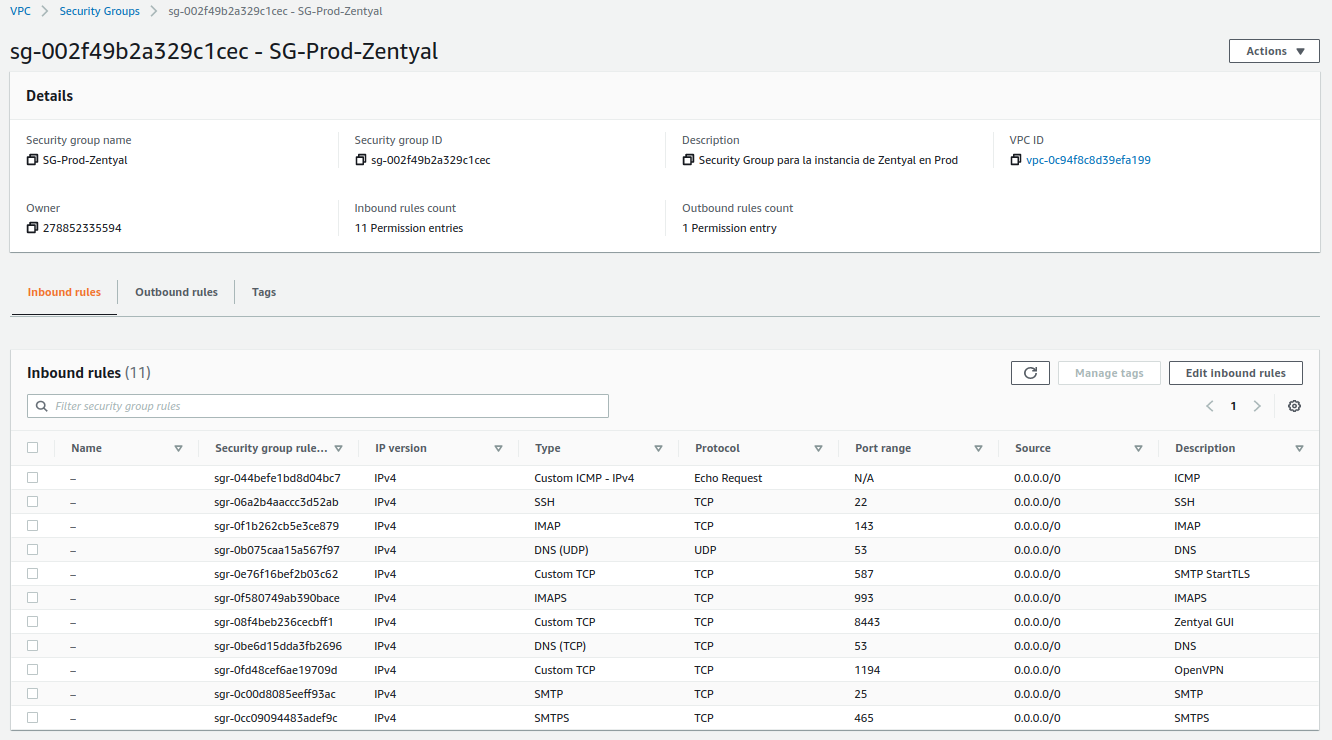
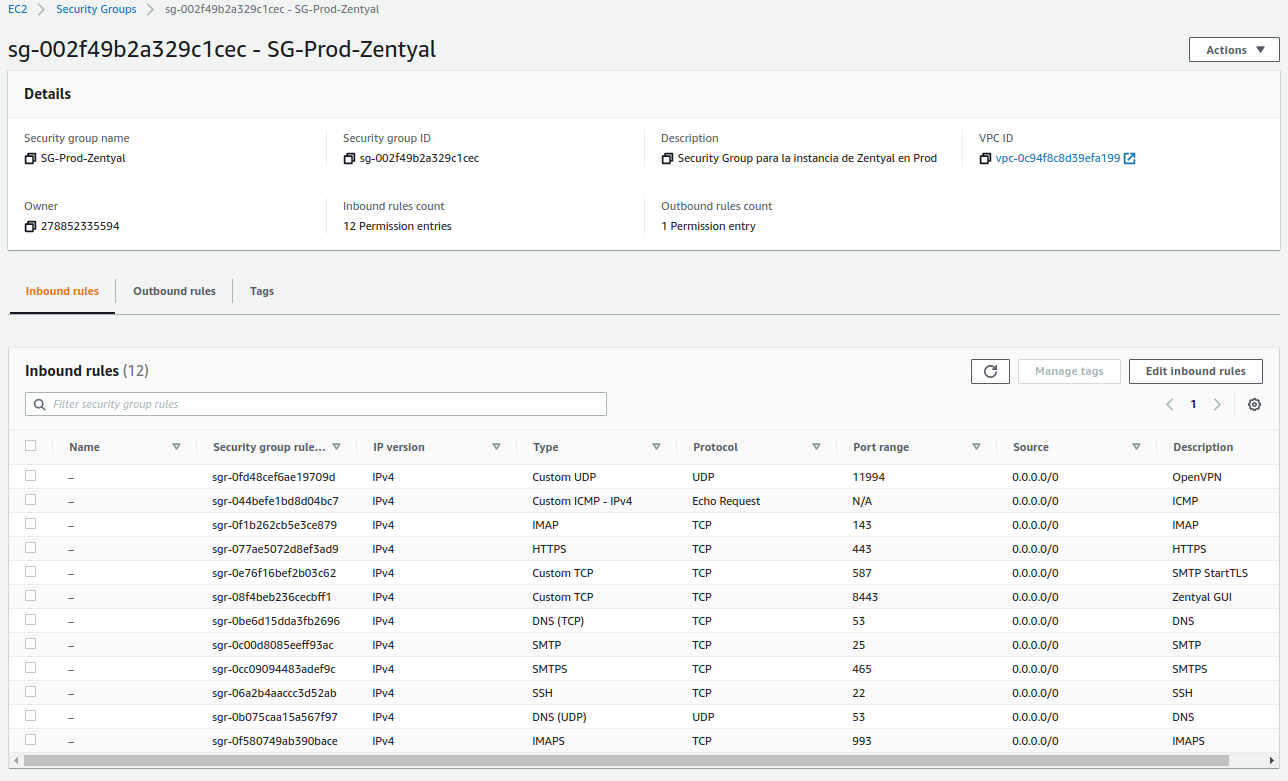
Añadido apartado de VPN

diff --git a/docs/zentyal-configuration.md b/docs/zentyal-configuration.md
@@ -246,13 +246,31 @@ En caso de que hayamos añadido volúmenes EBS adicionales -como ha sido mi caso
         └─nvme2n1p1  ext4                   e903ff6f-c431-4e3a-92a1-9f476c66b3be
     ```
 
-6. Creamos los directorios donde se montarán ambos volúmenes EBS:
+6. Creamos el directorio donde se montará el volumen EBS para los buzones de correo:
 
     ```sh
-    sudo mkdir -v /home/samba /var/vmail
+    sudo mkdir -v /var/vmail
     ```
 
-7. Obtenemos el identificador (UUID) de los volúmenes:
+7. Montamos temporalmente el volumen EBS que contendrá los recursos compartidos:
+
+    ```sh
+    sudo mount /dev/nvme1n1p1 /mnt
+    ```
+
+8. Copiamos el contenido del directorio `/home` al directorio temporal donde hemos montado el volumen EBS:
+
+    ```sh
+    sudo cp -aR /home/* /mnt/
+    ```
+
+9. Desmontamos el volumen EBS:
+
+    ```sh
+    sudo umount /mnt
+    ```
+
+10. Obtenemos el identificador (UUID) de los volúmenes:
 
     ```sh
     sudo sudo blkid | egrep "nvme[12]n1p1"
@@ -260,28 +278,28 @@ En caso de que hayamos añadido volúmenes EBS adicionales -como ha sido mi caso
         /dev/nvme1n1p1: UUID="e903ff6f-c431-4e3a-92a1-9f476c66b3be" TYPE="ext4" PARTUUID="446d2929-01"
     ```
 
-8. Establecemos en el archivo `/etc/fstab` el montaje de los volúmenes EBS:
+11. Establecemos en el archivo `/etc/fstab` el montaje de los volúmenes EBS:
 
     ```sh
     ## AWS EBS - Shares
-    UUID=e903ff6f-c431-4e3a-92a1-9f476c66b3be /home/samba ext4 defaults,noexec,nodev,nosuid 0 2
+    UUID=e903ff6f-c431-4e3a-92a1-9f476c66b3be /home ext4 defaults,noexec,nodev,nosuid 0 2
 
     ## AWS EBS - Mailboxes
     UUID=28e5471e-8fc1-48b5-8729-778c56a19b90 /var/vmail ext4 defaults,noexec,nodev,nosuid 0 2
     ```
 
-9. Montamos los volúmenes:
+12. Montamos los volúmenes manualmente para verificar que no hay errores de sintáxis en el archivo del paso anterior:
 
     ```sh
     sudo mount -a
     ```
 
-10. Confirmamos que se hayan montado bien:
+13. Finalmente, confirmamos que se hayan montado bien:
 
     ```sh
     mount | egrep 'nvme[12]n1p1'
         /dev/nvme2n1p1 on /var/vmail type ext4 (rw,nosuid,nodev,noexec,relatime)
-        /dev/nvme1n1p1 on /home/samba type ext4 (rw,nosuid,nodev,noexec,relatime)
+        /dev/nvme1n1p1 on /home type ext4 (rw,nosuid,nodev,noexec,relatime)
     ```
 
 ### Quota
@@ -298,27 +316,27 @@ Si queremos hacer uso de la funcionalidad de recursos compartidos del módulo de
 2. Creamos los archivos requeridos:
 
     ```sh
-    sudo touch /home/samba/quota.user
-    sudo touch /home/samba/quota.group
+    sudo touch /home/quota.user
+    sudo touch /home/quota.group
     ```
 
 3. Establecemos las opciones de montaje adicionales en el volumen EBS de los recursos compartidos, para ello, editamos el archivo de configuración `/etc/fstab`:
 
     ```sh
     ## AWS EBS - Shares
-    UUID=e903ff6f-c431-4e3a-92a1-9f476c66b3be	/home/samba	ext4	defaults,noexec,nodev,nosuid,usrjquota=quota.user,grpjquota=quota.group,jqfmt=vfsv0 0 2
+    UUID=e903ff6f-c431-4e3a-92a1-9f476c66b3be	/home	ext4	defaults,noexec,nodev,nosuid,usrjquota=quota.user,grpjquota=quota.group,jqfmt=vfsv0 0 2
     ```
 
 4. Re-montamos el volumen:
 
     ```sh
-    sudo mount -o remount /home/samba/
+    sudo mount -o remount /home/
     ```
 
 5. Finalmente, verificamos que la Quota está correctamente habilitada para el volumen EBS:
 
     ```sh
-    sudo quotacheck -vug /home/samba/
+    sudo quotacheck -vug /home/
     ```
 
 ## Configuración de Zentyal
@@ -797,4 +815,121 @@ Las configuraciones que estableceremos son:
 
 ### Módulo de OpenVPN
 
-TODO
+El último módulo que configuraremos será el de OpenVPN. La finalidad es que cualquier usuario puede hacer uso de los recursos compartidos configurados en el módulo de controlador de dominio de forma segura.
+
+1. Configuraremos el módulo de CA para crear una entidad certificadora con la que poder expedir los certificados de los usuarios que usarán la VPN. Para ello vamos a `Certificate Authority -> General`:
+
+    ![CA creation](images/zentyal/ca-creation.png "CA Creation")
+
+2. Guardamos cambios.
+
+3. Creamos un certificado cuyo nombre tendrá un prefijo concreto, de esta forma, sólo permitiremos en las conexiones VPN certificados que empiecen por este patrón. De esta forma podremos distinguir los certificados emitidos.
+
+    ![CA prefix certificate](images/zentyal/ca-prefix-certificate.png "CA prefix certificate")
+
+4. Con la entidad certificadora creada, procedemos a crear una conexión VPN desde `VPN -> Servers`:
+
+    ![OpenVPN server](images/zentyal/vpn-server.png "OpenVPN server")
+
+5. A continuación, procedemos a configurar la conexión:
+
+    ![OpenVPN configuration 1](images/zentyal/vpn-configuration-1.png "OpenVPN configuration 1")
+    ![OpenVPN configuration 1](images/zentyal/vpn-configuration-2.png "OpenVPN configuration 1")
+
+    Como se puede apreciar, se ha modificado el puerto por defecto tanto de OpenVPN como de la red. Además, también se ha establecido como política de seguridad que los certificados válidos deberán comenzar por: '**Icecrown-RC-**'.
+
+6. Después, nos aseguramos de estar publicando la red interna del servidor. Para ello vamos a `VPN -> Servers -> Advertised networks`.
+
+    ![OpenVPN network configuration](images/zentyal/vpn-network-configuration.png "OpenVPN network configuration")
+
+7. Habilitamos el módulo:
+
+    ![OpenVPN enable](images/zentyal/modules_openvpn.png "OpenVPN enable")
+
+8. Creamos un servicio de red, el cual contendrá el puerto establecido en el paso 5:
+
+    ![OpenVPN network service](images/zentyal/vpn-service-1.png "OpenVPN network service")
+    ![OpenVPN network service port](images/zentyal/vpn-service-2.png "OpenVPN network service port")
+
+9. Creamos una regla en el firewall de Zentyal que permita la conexión:
+
+    ![OpenVPN firewall rule](images/zentyal/vpn-firewall.png "OpenVPN firewall rule")
+
+Para probar el funcionamiento del módulo, realizaremos las siguientes acciones:
+
+1. Creamos un certificado llamado `Icecrown-RC-Maria`:
+
+    ![OpenVPN test certificate](images/zentyal/vpn-test-certificate.png "OpenVPN test certificate")
+
+2. Creamos un usuario del dominio llamado `maria`:
+
+    ![OpenVPN test user](images/zentyal/vpn-test-user.png "OpenVPN test user")
+
+3. Creamos una carpeta compartida llamada `rrhh` con permisos de lectura y escritura para el usuario creado.
+
+    ![OpenVPN test share](images/zentyal/vpn-test-share-1.png "OpenVPN test share")
+    ![OpenVPN test share permissons](images/zentyal/vpn-test-share-2.png "OpenVPN test share permissons")
+
+4. Guardamos los cambios para que se apliquen los cambios anteriores.
+
+5. Descargamos un bundle con la configuración de la conexión VPN para el cliente, para ello vamos a `VPN -> Servers -> Download client bundle`.
+
+    ![OpenVPN test bundle](images/zentyal/vpn-test-bundle.png "OpenVPN test bundle")
+
+    **NOTA:** Para este ejemplo concreto, usaré una máquina Ubuntu Desktop 20.04 para establecer la conexión VPN y realizar las pruebas.
+
+6. Copiamos el bundle al cliente desde donde queramos establecer la conexión VPN y configuramos el cliente de OpenVPN:
+
+    ![OpenVPN client configuration](images/zentyal/vpn-client-configuration.png "OpenVPN client configuration")
+
+7. Establecemos la conexión desde el cliente de OpenVPN. Si todo fue bien, podremos ver en el archivo de log de la conexión VPN de Zentyal llamado `/var/log/openvpn/Icecrown-RecursosCompartidos.log` unos registros similares a:
+
+    ```sh
+    Sat Feb  4 20:51:33 2023 88.6.127.36:35754 TLS: Initial packet from [AF_INET]88.6.127.36:35754 (via [AF_INET]10.0.1.200%ens5), sid=7c56b72b 70d7b663
+    Sat Feb  4 20:51:33 2023 88.6.127.36:35754 VERIFY OK: depth=1, C=ES, ST=Spain, L=Zaragoza, O=Icecrown CA, CN=Icecrown CA Authority Certificate
+    Sat Feb  4 20:51:33 2023 88.6.127.36:35754 VERIFY X509NAME OK: C=ES, ST=Spain, L=Zaragoza, O=Icecrown CA, CN=Icecrown-RC-Maria
+    Sat Feb  4 20:51:33 2023 88.6.127.36:35754 VERIFY OK: depth=0, C=ES, ST=Spain, L=Zaragoza, O=Icecrown CA, CN=Icecrown-RC-Maria
+    Sat Feb  4 20:51:33 2023 88.6.127.36:35754 peer info: IV_VER=2.6.0
+    Sat Feb  4 20:51:33 2023 88.6.127.36:35754 peer info: IV_PLAT=win
+    Sat Feb  4 20:51:33 2023 88.6.127.36:35754 peer info: IV_TCPNL=1
+    Sat Feb  4 20:51:33 2023 88.6.127.36:35754 peer info: IV_MTU=1600
+    Sat Feb  4 20:51:33 2023 88.6.127.36:35754 peer info: IV_NCP=2
+    Sat Feb  4 20:51:33 2023 88.6.127.36:35754 peer info: IV_CIPHERS=AES-256-GCM:AES-128-GCM
+    Sat Feb  4 20:51:33 2023 88.6.127.36:35754 peer info: IV_PROTO=478
+    Sat Feb  4 20:51:33 2023 88.6.127.36:35754 peer info: IV_LZ4=1
+    Sat Feb  4 20:51:33 2023 88.6.127.36:35754 peer info: IV_LZ4v2=1
+    Sat Feb  4 20:51:33 2023 88.6.127.36:35754 peer info: IV_LZO=1
+    Sat Feb  4 20:51:33 2023 88.6.127.36:35754 peer info: IV_COMP_STUB=1
+    Sat Feb  4 20:51:33 2023 88.6.127.36:35754 peer info: IV_COMP_STUBv2=1
+    Sat Feb  4 20:51:33 2023 88.6.127.36:35754 peer info: IV_GUI_VER=OpenVPN_GUI_11
+    Sat Feb  4 20:51:33 2023 88.6.127.36:35754 peer info: IV_SSO=openurl,webauth,crtext
+    Sat Feb  4 20:51:33 2023 88.6.127.36:35754 WARNING: 'tun-mtu' is used inconsistently, local='tun-mtu 1532', remote='tun-mtu 1500'
+    Sat Feb  4 20:51:33 2023 88.6.127.36:35754 WARNING: 'cipher' is present in local config but missing in remote config, local='cipher AES-256-CBC'
+    Sat Feb  4 20:51:33 2023 88.6.127.36:35754 Control Channel: TLSv1.3, cipher TLSv1.3 TLS_AES_256_GCM_SHA384, 4096 bit RSA
+    Sat Feb  4 20:51:33 2023 88.6.127.36:35754 [Icecrown-RC-Maria] Peer Connection Initiated with [AF_INET]88.6.127.36:35754 (via [AF_INET]10.0.1.200%ens5)
+    Sat Feb  4 20:51:33 2023 Icecrown-RC-Maria/88.6.127.36:35754 MULTI_sva: pool returned IPv4=192.168.210.2, IPv6=(Not enabled)
+    Sat Feb  4 20:51:34 2023 Icecrown-RC-Maria/88.6.127.36:35754 PUSH: Received control message: 'PUSH_REQUEST'
+    Sat Feb  4 20:51:34 2023 Icecrown-RC-Maria/88.6.127.36:35754 SENT CONTROL [Icecrown-RC-Maria]: 'PUSH_REPLY,route 10.0.1.0 255.255.255.0,route-gateway 192.168.210.1,ping 10,ping-restart 120,ifconfig 192.168.210.2 255.255.255.0,peer-id 0,cipher AES-256-GCM' (status=1)
+    Sat Feb  4 20:51:34 2023 Icecrown-RC-Maria/88.6.127.36:35754 Data Channel: using negotiated cipher 'AES-256-GCM'
+    Sat Feb  4 20:51:34 2023 Icecrown-RC-Maria/88.6.127.36:35754 Outgoing Data Channel: Cipher 'AES-256-GCM' initialized with 256 bit key
+    Sat Feb  4 20:51:34 2023 Icecrown-RC-Maria/88.6.127.36:35754 Incoming Data Channel: Cipher 'AES-256-GCM' initialized with 256 bit key
+    Sat Feb  4 20:51:34 2023 Icecrown-RC-Maria/88.6.127.36:35754 MULTI: Learn: 00:ff:83:a2:23:96 -> Icecrown-RC-Maria/88.6.127.36:35754
+    ```
+
+8. Una vez que hayamos establecido la conexión, desde el navegador de archivos, estableceremos la URL del servidor, en este caso sería: `\\arthas.icecrown.es`. Tras lo cual, nos pedirá las credenciales del usuario.
+
+    ![OpenVPN client log in credentials](images/zentyal/vpn-client-credentials.png "OpenVPN client log in credentials")
+
+9. Tras logearnos, deberíamos de ver el directorio personal del usuario y los recursos compartidos. Además, que también deberíamos de poder añadir archivos a dichos recursos.
+
+    ![OpenVPN client view](images/zentyal/vpn-client-shares.png "OpenVPN client view")
+
+10. Finalmente, verificaremos desde el propio servidor Zentyal como los archivos fueron correctamente creados:
+
+    ```sh
+    ls -l /home/maria/test-file-1.txt
+        -rwxrwx--x+ 1 ICECROWN\maria ICECROWN\domain users 0 Feb  4 20:56 /home/maria/test-file-1.txt
+
+    ls -l /home/samba/shares/rrhh/test-file-2.txt
+        -rwxrwx---+ 1 ICECROWN\maria ICECROWN\domain users 0 Feb  4 20:56 /home/samba/shares/rrhh/test-file-2.txt
+    ```

diff --git a/docs/aws.md b/docs/aws.md
@@ -158,7 +158,7 @@ Después, crearemos otro recurso, el cual permitirá el acceso a los siguientes 
 * **465/TCP** SMTPS.
 * **587/TCP** SMTPS con StartTLS.
 * **993/TCP** IMAPS.
-* **1194/TCP** OpenVPN.
+* **11994/UDP** OpenVPN.
 * **8443/TCP** Zentyal GUI.
 
 ![Security Group for Zentyal](images/aws/aws-14-vpc_securityGroup-2.png "Security Group for Zentyal")
